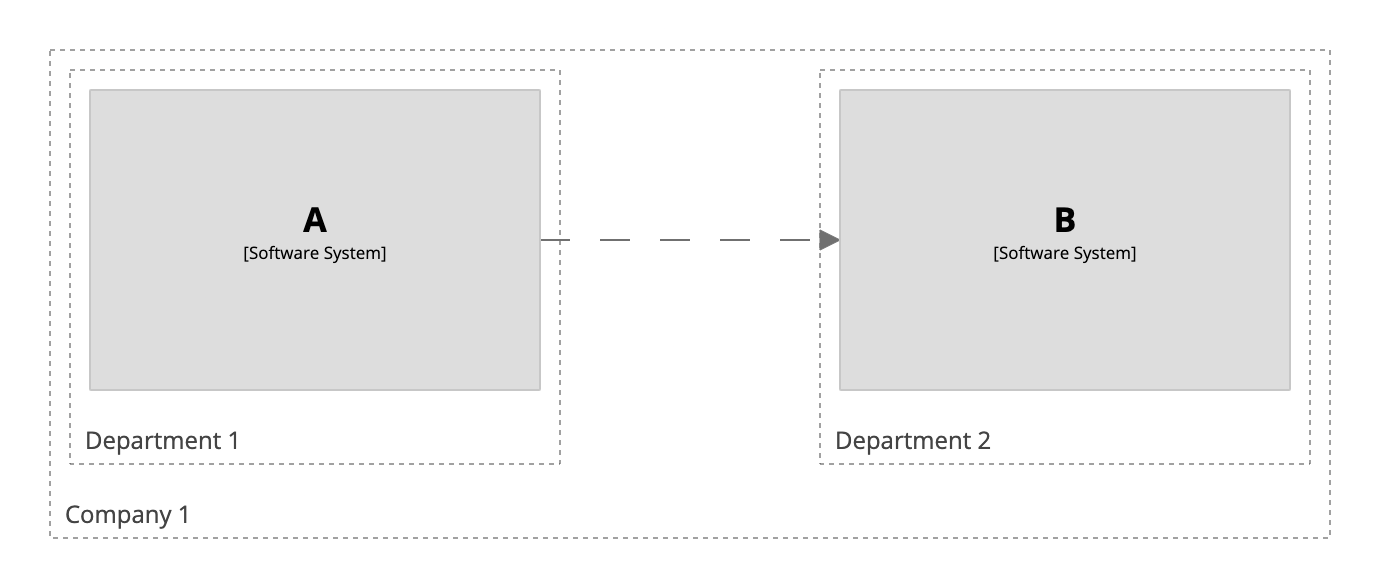
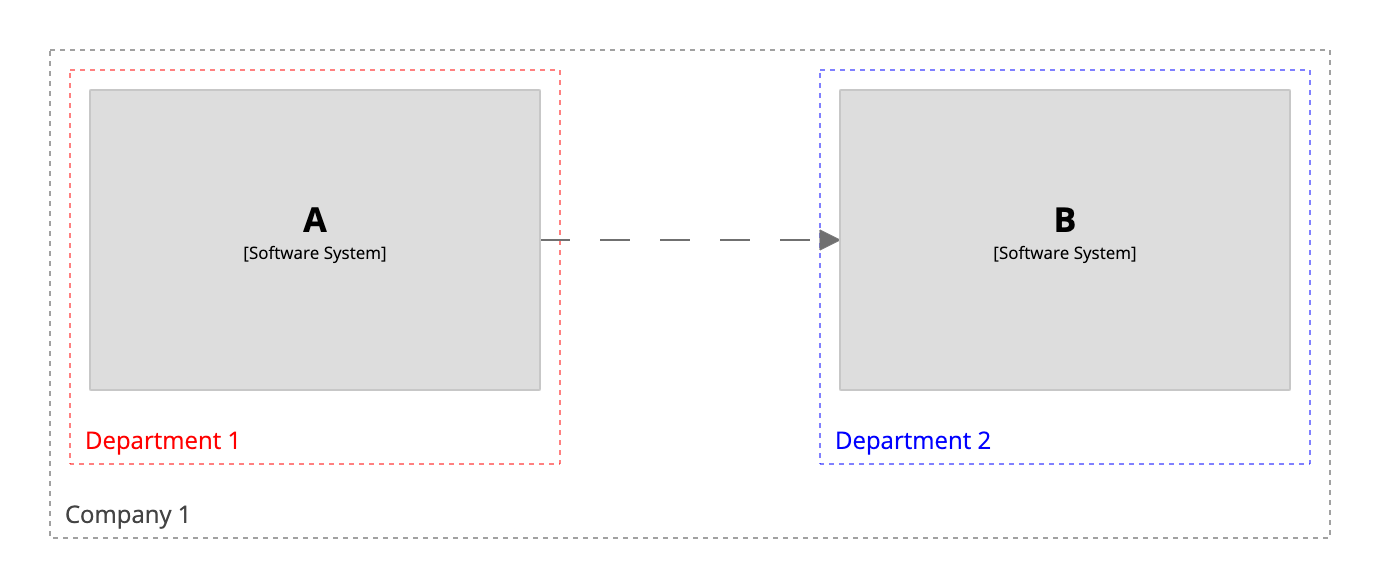
Shows how to style nested groups.

Changed region(s): [[0.592, 0.7347, 0.7167, 0.7653], [0.0623, 0.7347, 0.187, 0.7653]]

diff --git a/docs/cookbook/groups/README.md b/docs/cookbook/groups/README.md
@@ -116,6 +116,7 @@ workspace {
 Groups can also be nested. Element groups are defined as a single string property on the element named `group`,
 and defining nested groups requires a separator to be defined that will be used to split this single string into a set of hierarchical/nested groups.
 To do this, add a model property named `structurizr.groupSeparator` that defines a separator to use, and be sure to not use this separator in your group names.
+Styling nested groups requires using the full hierarchical group name when defining the element style.
 
 ```
 workspace {
@@ -124,7 +125,7 @@ workspace {
         properties {
             "structurizr.groupSeparator" "/"
         }
-        
+
         group "Company 1" {
             group "Department 1" {
                 a = softwareSystem "A"
@@ -142,6 +143,15 @@ workspace {
         systemLandscape {
             include *
             autolayout lr
+        }
+        
+        styles {
+            element "Group:Company 1/Department 1" {
+                color #ff0000
+            }
+            element "Group:Company 1/Department 2" {
+                color #0000ff
+            }
         }
     }
     
